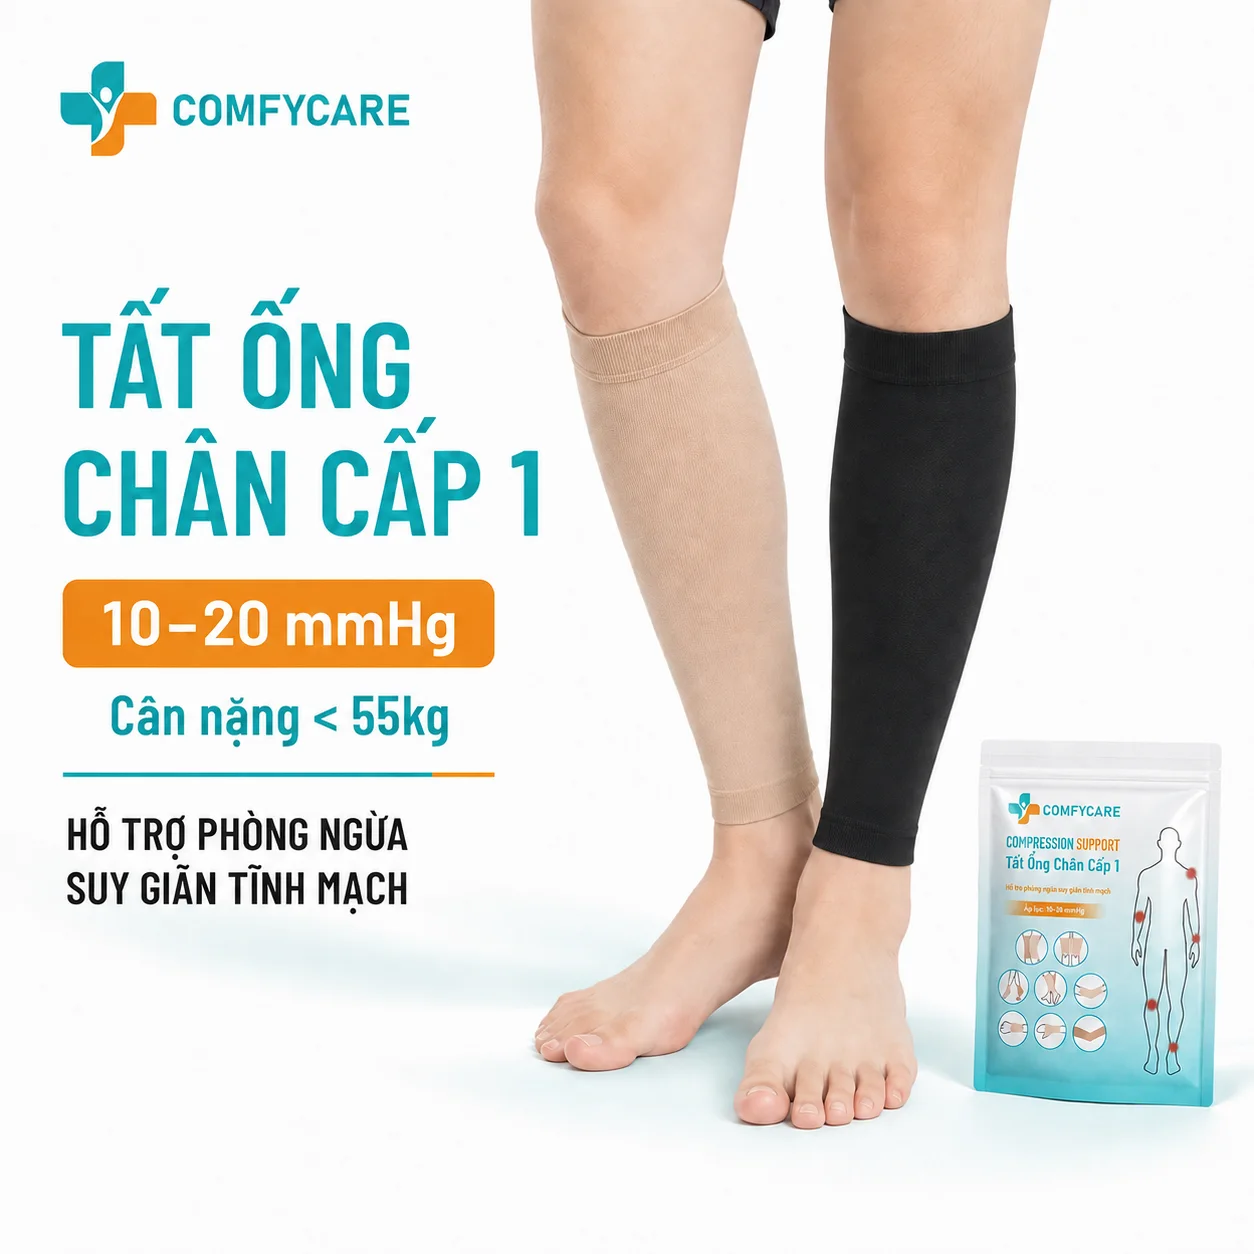
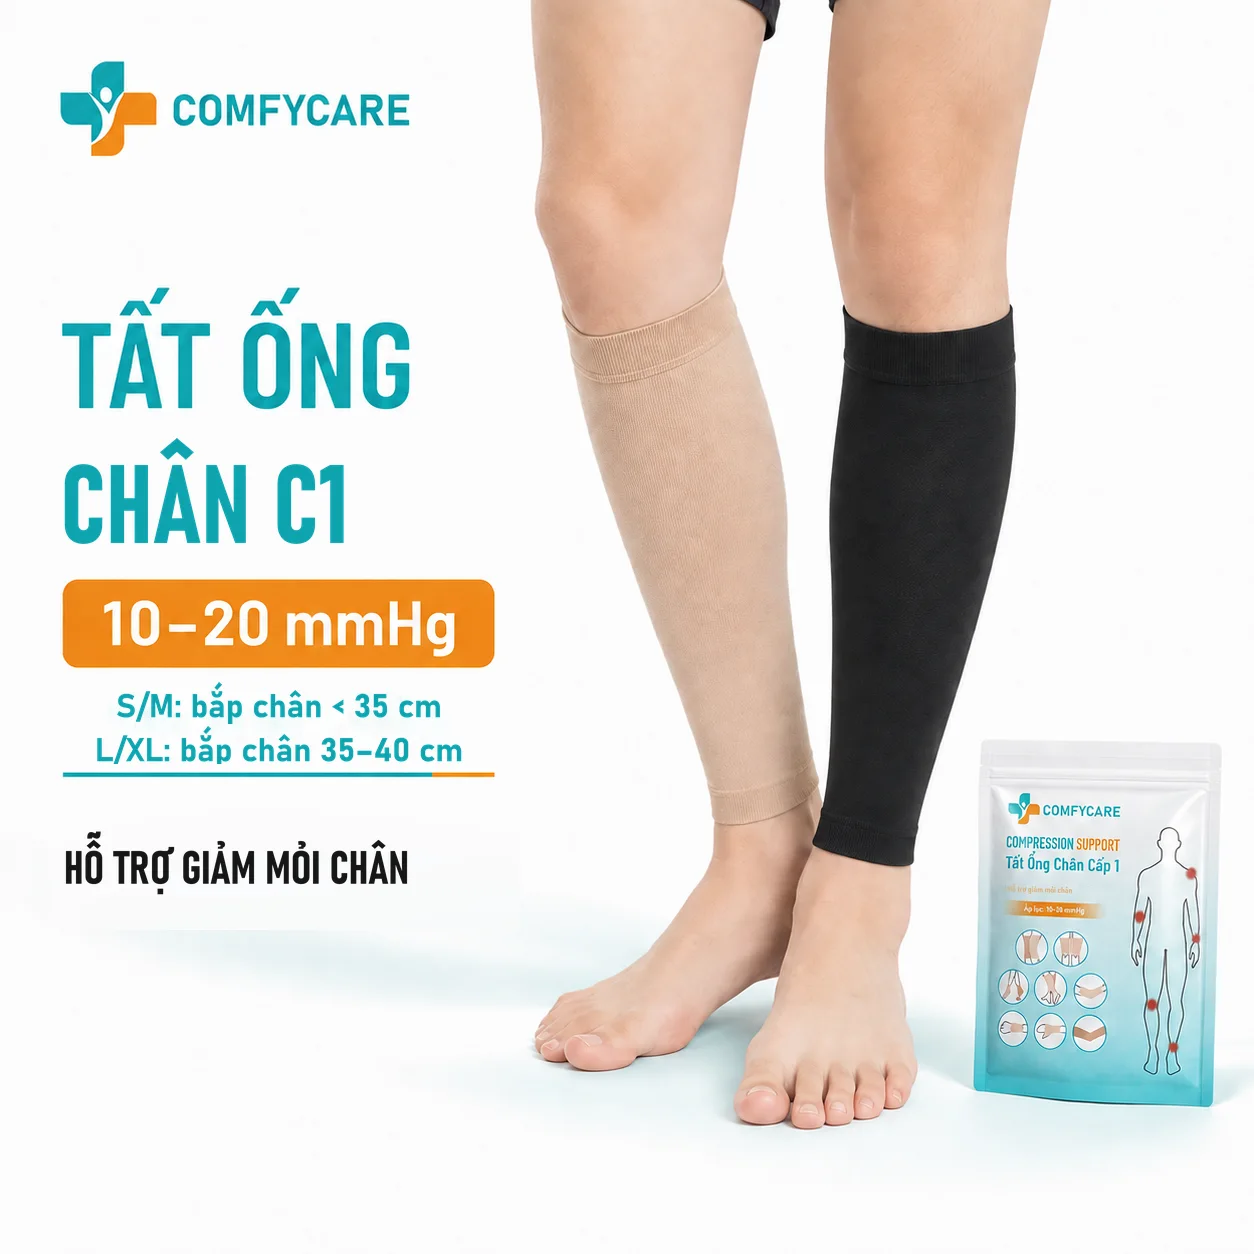
CS11 them co L/XL theo chu vi bap chan, anh CS11 moi
Theo brain business 39 (24/10/2026).

diff --git a/san-pham/cs11/index.html b/san-pham/cs11/index.html
@@ -11,7 +11,7 @@
     <link rel="stylesheet" href="/product-detail.css?v=dad8ae14d9e8" />
     <script src="/site.min.js?v=2d182f237681" defer></script>
     <script src="/product-detail.js?v=7ce095697aa5" defer></script>
-    <script type="application/ld+json">{"@context": "https://schema.org", "@type": "Product", "name": "Tất Ống Chân C1", "sku": "CS11", "image": ["https://comfycare.vn/assets/products/CS11/gallery/1.webp", "https://comfycare.vn/assets/products/CS11/gallery/2.webp", "https://comfycare.vn/assets/products/CS11/gallery/3.webp", "https://comfycare.vn/assets/products/CS11/gallery/4.webp", "https://comfycare.vn/assets/products/CS11/gallery/5.webp", "https://comfycare.vn/assets/products/CS11/gallery/6.webp", "https://comfycare.vn/assets/products/CS11/gallery/7.webp", "https://comfycare.vn/assets/products/CS11/gallery/8.webp"], "description": "CS11 ôm ống chân, để hở bàn chân, áp lực 10–20 mmHg. Mẫu thể thao cấp 1 này hiện có cỡ S/M trong bảng đã công bố.", "brand": {"@type": "Brand", "name": "Comfycare"}, "offers": {"@type": "Offer", "price": 99750, "priceCurrency": "VND", "url": "https://comfycare.vn/san-pham/cs11/"}}</script>
+    <script type="application/ld+json">{"@context": "https://schema.org", "@type": "Product", "name": "Tất Ống Chân C1", "sku": "CS11", "image": ["https://comfycare.vn/assets/products/CS11/gallery/1.webp", "https://comfycare.vn/assets/products/CS11/gallery/2.webp", "https://comfycare.vn/assets/products/CS11/gallery/3.webp", "https://comfycare.vn/assets/products/CS11/gallery/4.webp", "https://comfycare.vn/assets/products/CS11/gallery/5.webp", "https://comfycare.vn/assets/products/CS11/gallery/6.webp", "https://comfycare.vn/assets/products/CS11/gallery/7.webp", "https://comfycare.vn/assets/products/CS11/gallery/8.webp"], "description": "CS11 ôm ống chân, để hở bàn chân, áp lực 10–20 mmHg. Có 2 cỡ theo chu vi bắp chân: S/M dưới 35 cm, L/XL từ 35 đến 40 cm.", "brand": {"@type": "Brand", "name": "Comfycare"}, "offers": {"@type": "Offer", "price": 99750, "priceCurrency": "VND", "url": "https://comfycare.vn/san-pham/cs11/"}}</script>
     <!-- Meta Pixel Code -->
     <script>
     !function(w,d,s,u,id){
@@ -77,7 +77,7 @@
               <div class="pd-badges"><span class="catalog-badge catalog-badge--warm">Tất thể thao cấp 1</span><span class="sku">CS11</span></div>
               <h1>Tất Ống Chân C1</h1>
               <p class="pd-pressure">Áp lực 10–20 mmHg</p>
-              <p class="pd-lead">CS11 ôm ống chân, để hở bàn chân, áp lực 10–20 mmHg. Mẫu thể thao cấp 1 này hiện có cỡ S/M trong bảng đã công bố.</p>
+              <p class="pd-lead">CS11 ôm ống chân, để hở bàn chân, áp lực 10–20 mmHg. Có 2 cỡ theo chu vi bắp chân: S/M dưới 35 cm, L/XL từ 35 đến 40 cm.</p>
               <p class="pd-scope">Sản phẩm thể thao, không thuộc danh mục công bố thiết bị y tế.</p>
               <div class="pd-price">
                 <strong>99.750đ</strong><span>/ đôi</span>
@@ -88,7 +88,7 @@
               <form class="pd-options" aria-label="Chọn phân loại" onsubmit="return false">
                 <fieldset class="pd-field">
                   <legend>Size <a class="pd-link" href="#pd-size">Cách đo và bảng size</a></legend>
-                  <div class="pd-chips"><label class="pd-chip"><input type="radio" name="size" value="S/M" /><span>S/M</span></label></div>
+                  <div class="pd-chips"><label class="pd-chip"><input type="radio" name="size" value="S/M" /><span>S/M</span></label><label class="pd-chip"><input type="radio" name="size" value="L/XL" /><span>L/XL</span></label></div>
                 </fieldset>
                 <fieldset class="pd-field">
                   <legend>Màu</legend>
@@ -119,18 +119,18 @@
                 <img src="/assets/products/CS11/gallery/3-640.webp" srcset="/assets/products/CS11/gallery/3-640.webp 640w, /assets/products/CS11/gallery/3.webp 1254w" sizes="(max-width: 900px) calc(100vw - 32px), 560px" alt="Hướng dẫn chọn size Tất Ống Chân C1" width="1254" height="1254" loading="lazy" decoding="async" />
               </figure>
               <p class="pd-size__need">CS11 chọn size theo:</p>
-                <ol class="pd-measure"><li><span class="pd-measure-key">1</span>Chu vi bắp chân: cỡ S/M dưới 35 cm</li><li><span class="pd-measure-key">2</span>Cân nặng tham khảo: dưới 55 kg</li></ol>
-                <p class="pd-muted">CS11 chỉ có một cỡ S/M.</p>
+                <ol class="pd-measure"><li><span class="pd-measure-key">1</span>Chu vi bắp chân, chỗ to nhất: cỡ S/M dưới 35 cm, cỡ L/XL 35–40 cm</li></ol>
+                <p class="pd-muted">Không chọn CS11 theo cân nặng. Bắp chân trên 40 cm hiện chưa có size phù hợp.</p>
             </div>
             <div class="pd-size__chart">
               <p class="pd-size__label">Đối chiếu số đo với bảng (cm)</p>
               <div class="pd-table-shell">
                 <table class="pd-size-table">
                   <caption class="sr-only">Bảng size Tất Ống Chân C1</caption>
-                  <thead><tr><th scope="col">Tiêu chí</th><th scope="col">S/M</th></tr></thead>
+                  <thead><tr><th scope="col">Cỡ</th><th scope="col">Chu vi bắp chân</th></tr></thead>
                   <tbody>
-                  <tr><td>Chu vi bắp chân</td><td>&lt; 35 cm</td></tr>
-                  <tr><td>Cân nặng tham khảo</td><td>&lt; 55 kg</td></tr>
+                  <tr><td>S/M</td><td>&lt; 35 cm</td></tr>
+                  <tr><td>L/XL</td><td>35–40 cm</td></tr>
                   </tbody>
                 </table>
               </div>
@@ -156,7 +156,7 @@
                 <div><dt>Chất liệu</dt><dd>55% Nylon + 35% Polyester + 10% Spandex</dd></div>
                 <div><dt>Đơn vị bán</dt><dd>1 đôi (2 chiếc)</dd></div>
                 <div><dt>Màu</dt><dd>Da, Đen</dd></div>
-                <div><dt>Size</dt><dd>S/M</dd></div>
+                <div><dt>Size</dt><dd>S/M, L/XL</dd></div>
             </dl>
           </section>
 

diff --git a/huong-dan-chon-size/index.html b/huong-dan-chon-size/index.html
@@ -315,7 +315,8 @@
                       <tr><td data-mobile-title="Cỡ">L/XL</td><td data-mobile-label="Áp dụng">CS14</td><td data-mobile-label="Quy đổi">Chu vi đùi tại A phía trên gối &gt;44–52 cm</td></tr>
                       <tr><td data-mobile-title="Cỡ">S/M</td><td data-mobile-label="Áp dụng">CS110</td><td data-mobile-label="Quy đổi">Nam &lt; 60 kg; Nữ &lt; 55 kg</td></tr>
                       <tr><td data-mobile-title="Cỡ">L/XL</td><td data-mobile-label="Áp dụng">CS110</td><td data-mobile-label="Quy đổi">Nam 60–65 kg; Nữ 55–60 kg</td></tr>
-                      <tr><td data-mobile-title="Cỡ">S/M</td><td data-mobile-label="Áp dụng">CS11</td><td data-mobile-label="Quy đổi">Chu vi bắp chân &lt; 35 cm; cân nặng tham khảo &lt; 55 kg</td></tr>
+                      <tr><td data-mobile-title="Cỡ">S/M</td><td data-mobile-label="Áp dụng">CS11</td><td data-mobile-label="Quy đổi">Chu vi bắp chân &lt; 35 cm</td></tr>
+                      <tr><td data-mobile-title="Cỡ">L/XL</td><td data-mobile-label="Áp dụng">CS11</td><td data-mobile-label="Quy đổi">Chu vi bắp chân 35–40 cm</td></tr>
                       <tr><td data-mobile-title="Cỡ">S/M</td><td data-mobile-label="Áp dụng">CS12</td><td data-mobile-label="Quy đổi">Size giày 36–40</td></tr>
                       <tr><td data-mobile-title="Cỡ">L/XL</td><td data-mobile-label="Áp dụng">CS12</td><td data-mobile-label="Quy đổi">Size giày từ 41</td></tr>
                     </tbody>
@@ -327,7 +328,7 @@
 
           <aside class="notice-card notice-card--warm">
             <strong>Lưu ý với dòng cấp 1:</strong>
-            <span>CS14 chọn theo chu vi đùi tại A phía trên gối, không theo cân nặng; trên 52 cm chưa có cỡ phù hợp trong bảng. CS11 hiện chỉ có cỡ S/M; CS12 chọn theo size giày. Ưu tiên số đo chu vi chân; ngoài phạm vi bảng, hãy nhắn tư vấn, không tự nội suy size.</span>
+            <span>CS14 chọn theo chu vi đùi tại A phía trên gối, không theo cân nặng; trên 52 cm chưa có cỡ phù hợp trong bảng. CS11 chọn theo chu vi bắp chân, không theo cân nặng; CS12 chọn theo size giày. Ưu tiên số đo chu vi chân; ngoài phạm vi bảng, hãy nhắn tư vấn, không tự nội suy size.</span>
           </aside>
         </div>
       </section>

diff --git a/scripts/build-products.py b/scripts/build-products.py
@@ -27,7 +27,7 @@ MEASURE = {
     'CS29': (['Chu vi cổ tay'], ''),
     'CS30': (['Chu vi cổ tay'], ''),
     'CS31': (['Chu vi khuỷu tay'], ''),
-    'CS11': (['Chu vi bắp chân: cỡ S/M dưới 35 cm', 'Cân nặng tham khảo: dưới 55 kg'], 'CS11 chỉ có một cỡ S/M.'),
+    'CS11': (['Chu vi bắp chân, chỗ to nhất: cỡ S/M dưới 35 cm, cỡ L/XL 35–40 cm'], 'Không chọn CS11 theo cân nặng. Bắp chân trên 40 cm hiện chưa có size phù hợp.'),
     'CS12': (['Size giày: cỡ S/M cho giày 36–40, cỡ L/XL cho giày từ 41'], ''),
     'CS14': (['Chu vi đùi tại vị trí A, phần trên gối'], 'Không chọn CS14 theo cân nặng. Chu vi đùi tại A trên 52 cm hiện chưa có size phù hợp.'),
     'CS110': (['Giới tính và cân nặng (bảng tham khảo)'], 'Cân nặng ngoài khoảng trong bảng: nhắn Comfycare để kiểm tra số đo thực tế trước khi mua.'),
@@ -50,9 +50,9 @@ SHOPEE = {
 SHOP_ID = '1268125014'
 ZALO = 'https://zalo.me/0848621092'
 BYT_NUMBER = '250000052/PCBA-HP'
-# F.1–F.7: các cỡ đang bán. CS11 chỉ một cỡ S/M; CS12 (business 36), CS14, CS110 có S/M và L/XL.
+# F.1–F.7: các cỡ đang bán. CS11 (business 39), CS12 (business 36), CS14, CS110 có S/M và L/XL.
 FULL_SIZES = ['S', 'M', 'L', 'XL', 'XXL']
-SIZES = {'CS11': ['S/M'], 'CS12': ['S/M', 'L/XL'], 'CS14': ['S/M', 'L/XL'], 'CS110': ['S/M', 'L/XL'], 'CS100': [], 'CS101': []}
+SIZES = {'CS11': ['S/M', 'L/XL'], 'CS12': ['S/M', 'L/XL'], 'CS14': ['S/M', 'L/XL'], 'CS110': ['S/M', 'L/XL'], 'CS100': [], 'CS101': []}
 # Tiêu đề trong size_guides.md -> mã dùng bảng đó; neo tương ứng trên /huong-dan-chon-size/.
 SIZE_SECTIONS = [
     ('### F.1.', ['CS21', 'CS22', 'CS26', 'CS23', 'CS24', 'CS27', 'CS33', 'CS34', 'CS35'], 'medical-compression-size'),

diff --git a/scripts/validate_data.py b/scripts/validate_data.py
@@ -1,11 +1,11 @@
-from pathlib import Path
+from pathlib import Path
 from urllib.parse import unquote
 import re, json, sqlite3, hashlib
 from workspace_paths import SITE as PROJECT, BRAIN_DB, CONTENT, QA_BASELINES
 # Nguồn duy nhất: Tuấn Anh Workspace/brain/brain.db
 BASELINE=QA_BASELINES/"data-brain-20261012"
-# Hash brain.db hiện hành so với baseline mới nhất (24/10 bản b: thêm business 38).
-DB_BASELINE=QA_BASELINES/"brain-baseline-20261024b.json"
+# Hash brain.db hiện hành so với baseline mới nhất (24/10 bản c: thêm business 39).
+DB_BASELINE=QA_BASELINES/"brain-baseline-20261024c.json"
 OUT=PROJECT/"outputs/data-validation"
 OUT.mkdir(parents=True, exist_ok=True)
 DATA=CONTENT

diff --git a/scripts/README.md b/scripts/README.md
@@ -1,13 +1,13 @@
-# Công cụ bảo trì
+# Công cụ bảo trì
 
 Chạy từ thư mục repo (`C:\Users\mrtua\dev\comfycare-vn-website`). Các script đọc dữ liệu ở workspace OneDrive qua `scripts/workspace_paths.py`; đặt biến `COMFYCARE_WORKSPACE` nếu workspace nằm chỗ khác.
 
 - Kiểm tra asset/link: `python scripts/validate_site.py`.
-- Kiểm tra kho nội dung theo brain.db: `python scripts/validate_data.py`. Đọc `brain/brain.db` và `brain/content/` trong workspace; so file với baseline lịch sử `projects/website-comfycare/qa-baselines/data-brain-20261012` (không xóa). Hash brain.db so với `qa-baselines/brain-baseline-20261024b.json` (48 bản ghi, mới nhất business 38). Khi brain.db được duyệt thay đổi, tạo baseline mới bên cạnh và trỏ DB_BASELINE sang, không ghi đè bản cũ.
+- Kiểm tra kho nội dung theo brain.db: `python scripts/validate_data.py`. Đọc `brain/brain.db` và `brain/content/` trong workspace; so file với baseline lịch sử `projects/website-comfycare/qa-baselines/data-brain-20261012` (không xóa). Hash brain.db so với `qa-baselines/brain-baseline-20261024c.json` (49 bản ghi, mới nhất business 39). Khi brain.db được duyệt thay đổi, tạo baseline mới bên cạnh và trỏ DB_BASELINE sang, không ghi đè bản cũ.
 - Đối chiếu giá/nguồn giữa database, `brain/knowledge`, `brain/content` và HTML: `python scripts/validate_sources.py`.
 - Regression nội dung local: `node scripts/test-content-sync.cjs` (Playwright; CHATBOT_TEST_URL mặc định http://127.0.0.1:4183; kết quả mặc định ở outputs/content-latest).
 - Tạo ảnh responsive: `python scripts/generate_responsive_images.py` (cần Pillow). Chỉ chạy khi thay ảnh nguồn.
-- Sản phẩm: `python scripts/build-products.py` sinh `data/products.json` (19 mã, giá bán lẻ, size, màu, quà CS100, link Shopee) từ `brain/knowledge/products/catalog_pricing.md`, `size_guides.md` và `brain/content/products/`, rồi sinh trang `/san-pham/<mã>/` cho các mã trong `PAGE_SKUS` và thêm vào `sitemap.xml`. CSS/JS riêng: `product-detail.css`, `product-detail.js` (gallery). Ảnh gallery: `node scripts/import-product-images.cjs CS22` chuyển `Database Comfycare/Ảnh sản phẩm/<mã>/N.png` sang `assets/products/<MÃ>/gallery/N.webp`, `N-640.webp`, `N-160.webp` (Chrome qua Playwright, biến PLAYWRIGHT_MODULE, PRODUCT_IMAGE_SOURCE); rồi chạy lại build-products. Ảnh sàn trái brain không đưa lên web: khai báo trong `GALLERY_SKIP` của build-products.py (hiện CS14 ảnh 5, CS12 ảnh 3) và xóa file webp tương ứng; ảnh bảng size dùng ở khối chọn size khai báo trong `SIZE_FIGURE`. Chạy lại sau khi sửa brain hoặc CSS; `validate_sources.py` đối chiếu giá/link Shopee của products.json và trang chi tiết.
+- Sản phẩm: `python scripts/build-products.py` sinh `data/products.json` (20 mã, giá bán lẻ, size, màu, quà CS100, link Shopee) từ `brain/knowledge/products/catalog_pricing.md`, `size_guides.md` và `brain/content/products/`, rồi sinh trang `/san-pham/<mã>/` cho các mã trong `PAGE_SKUS` và thêm vào `sitemap.xml`. CSS/JS riêng: `product-detail.css`, `product-detail.js` (gallery). Ảnh gallery: `node scripts/import-product-images.cjs CS22` chuyển `Database Comfycare/Ảnh sản phẩm/<mã>/N.png` sang `assets/products/<MÃ>/gallery/N.webp`, `N-640.webp`, `N-160.webp` (Chrome qua Playwright, biến PLAYWRIGHT_MODULE, PRODUCT_IMAGE_SOURCE); rồi chạy lại build-products. Ảnh sàn trái brain không đưa lên web: khai báo trong `GALLERY_SKIP` của build-products.py (hiện trống) và xóa file webp tương ứng; ảnh bảng size dùng ở khối chọn size khai báo trong `SIZE_FIGURE`. Chạy lại sau khi sửa brain hoặc CSS; `validate_sources.py` đối chiếu giá/link Shopee của products.json và trang chi tiết.
 - Bán hàng trên web (`shop.js`, `shop.css`; trang /cart/, /thanh-toan/, /don-hang/): tắt mặc định (`SHOP.enabled = false` đầu `shop.js`). Sau khi sửa `shop.js`/`shop.css`: `python scripts/build-shop.py` (gắn version lên mọi trang), rồi `python scripts/build-products.py`. Xem thử trên máy: chạy API thử `node scripts/dev-server.mjs` trong repo `comfycare-api`, mở `http://127.0.0.1:4183/?shop-preview=http://127.0.0.1:8787` (chỉ có tác dụng trên localhost). Kiểm thử: `node scripts/test-shop.cjs` (cần API thử đang chạy; SHOP_TEST_URL, SHOP_TEST_API, SHOP_TEST_OUTPUT).
 - Chatbot: `python scripts/build-chatbot.py`; nguồn `brain/content/sales_script.md` trong workspace; sau đó `node scripts/test-chatbot.cjs` với Playwright có sẵn.
 - Kiểm thử chatbot hỗ trợ CHATBOT_TEST_URL, CHATBOT_TEST_OUTPUT, PLAYWRIGHT_MODULE, CHROME_PATH; mặc định ghi outputs/chatbot-latest.
